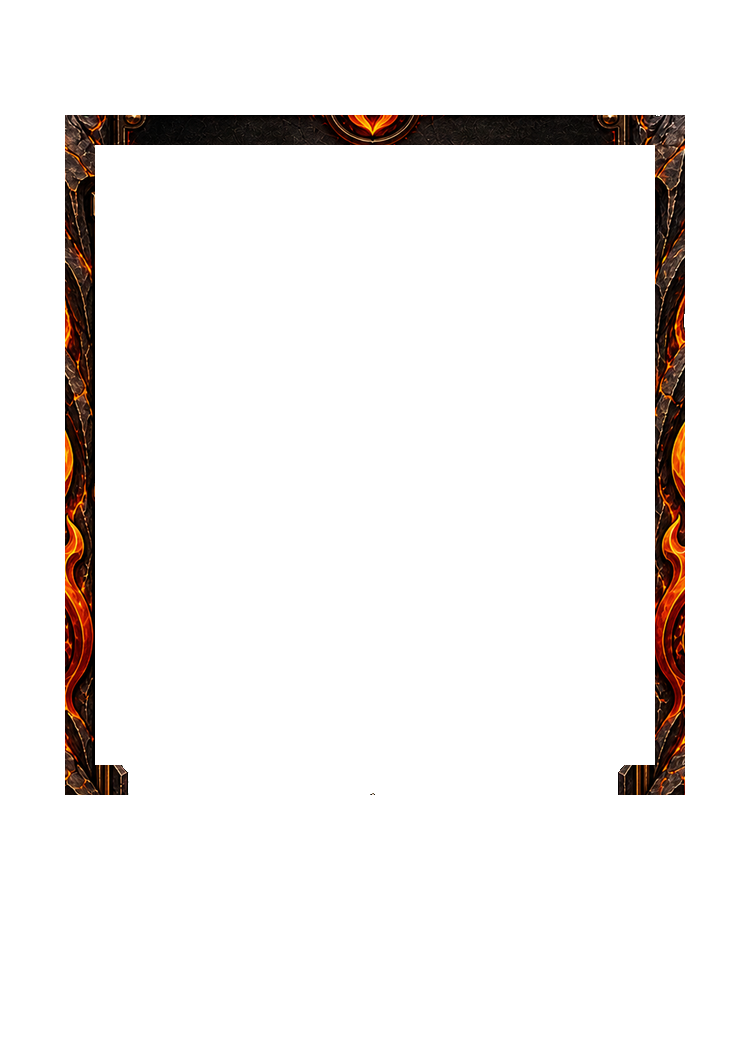
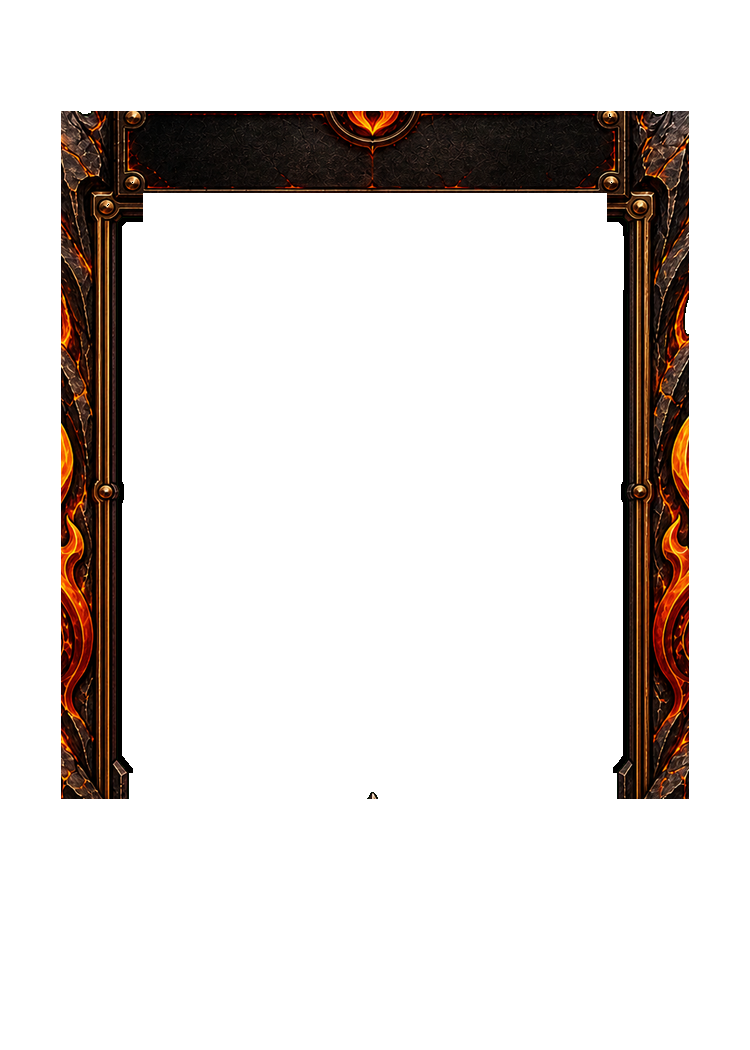
Stop checkerboard from cutting through frame chrome
Preserve ornate bezels inside the art-window bounds, remove hard art-rect
wipes, force surviving frame pixels fully opaque, and keep gray boxing
strictly under the frame composite.

Changed region(s): [[0.0613, 0.0914, 0.92, 0.7619]]

diff --git a/frames/export_layers.py b/frames/export_layers.py
@@ -101,7 +101,12 @@ def clear_outside_silhouette(arr: np.ndarray, *, alpha_threshold: int = 20) -> n
 
 
 def split_layers(frame_rgba: Image.Image, layout: dict[str, Any]) -> dict[str, Image.Image]:
-    """Split a transparent frame into editable region layers."""
+    """Split a transparent frame into editable region layers.
+
+    Important: do NOT hard-wipe the locked art_window rectangle. Ornate bezels
+    often sit inside those coordinates; only already-transparent pixels form the
+    art hole, so the frame can overlay checker/gray boxing cleanly.
+    """
     canvas = layout["canvas"]
     w, h = canvas["width"], canvas["height"]
     arr = np.array(frame_rgba.convert("RGBA").resize((w, h), Image.Resampling.LANCZOS))
@@ -112,9 +117,11 @@ def split_layers(frame_rgba: Image.Image, layout: dict[str, Any]) -> dict[str, I
     title_m = _rect_mask(h, w, regions["title_box"], inflate=10)
     bl_m = _rect_mask(h, w, regions["bottom_left_box"], inflate=10)
     br_m = _rect_mask(h, w, regions["bottom_right_box"], inflate=10)
-    bezel_m = _ring_mask(h, w, regions["art_window"], outer=30, inner_inset=0)
+    art = regions["art_window"]
+    art_m = _rect_mask(h, w, art)
+    # Bezel = opaque pixels near/inside the art rect rim + a ring just outside it.
+    bezel_m = _ring_mask(h, w, art, outer=34, inner_inset=0) | (art_m & opaque)
 
-    # Crest bands: top strip above title, and gap between bottom plaques.
     crest_m = np.zeros((h, w), dtype=bool)
     crest_m[0 : regions["title_box"]["y"] + 8, :] = True
     mid_x0 = regions["bottom_left_box"]["x"] + regions["bottom_left_box"]["width"]
@@ -126,21 +133,17 @@ def split_layers(frame_rgba: Image.Image, layout: dict[str, Any]) -> dict[str, I
         mid_x0:mid_x1,
     ] = True
 
-    # Priority assignment so plaques/crests/bezel win over outer chrome.
     layers = {name: _blank(w, h) for name in LAYER_ORDER}
 
     def assign(name: str, mask: np.ndarray) -> None:
-        m = mask & opaque & (layers[name][:, :, 3] == 0)
-        # ensure not already taken by higher-priority filled layers
         taken = np.zeros((h, w), dtype=bool)
         for prev in LAYER_ORDER:
             if prev == name:
                 break
             taken |= layers[prev][:, :, 3] > 0
-        m = m & ~taken
+        m = mask & opaque & ~taken
         layers[name][m] = arr[m]
 
-    # Order: plaques and crests first, then bezel, then remaining outer frame.
     assign("title_plaque", title_m)
     assign("footer_left", bl_m)
     assign("footer_right", br_m)
@@ -150,18 +153,7 @@ def split_layers(frame_rgba: Image.Image, layout: dict[str, Any]) -> dict[str, I
     taken = np.zeros((h, w), dtype=bool)
     for name in ("title_plaque", "footer_left", "footer_right", "crests", "art_bezel"):
         taken |= layers[name][:, :, 3] > 0
-    outer_m = opaque & ~taken
-    # Never put art-window interior into outer frame.
-    art = regions["art_window"]
-    art_m = _rect_mask(h, w, art, inflate=-2 if False else 0)
-    # hard clear art interior from outer
-    art_inner = _rect_mask(h, w, art)
-    outer_m &= ~art_inner
-    layers["outer_frame"][outer_m] = arr[outer_m]
-
-    # Guarantee art window stays empty on every layer.
-    for name in LAYER_ORDER:
-        layers[name][art_inner] = (0, 0, 0, 0)
+    layers["outer_frame"][opaque & ~taken] = arr[opaque & ~taken]
 
     return {k: Image.fromarray(v, "RGBA") for k, v in layers.items()}
 
@@ -188,6 +180,7 @@ def export_pack(
     layers_dir = out_dir / "layers"
     layers_dir.mkdir(exist_ok=True)
 
+    # Only clear empty fill (green/white). Never hard-wipe the art rect.
     punched = punch_art_hole(frame_rgba, layout, preserve_frame_detail=True)
     punched_arr = clear_outside_silhouette(np.array(punched))
     punched = Image.fromarray(punched_arr, "RGBA")

diff --git a/frames/build_hq_frame.py b/frames/build_hq_frame.py
@@ -151,39 +151,18 @@ def punch_art_hole(
 
 
 def make_slot_underlay(layout: dict[str, Any], *, cell: int = 16, full_checker: bool = True) -> Image.Image:
-    """Gray boxing for locked slots — drawn UNDER the frame.
+    """Checker underlay drawn UNDER the frame.
 
-    full_checker=True makes the entire canvas checkerboard so exterior
-    transparency of a frame cutout is obvious.
+    No solid gray plaque slabs — those read as cutting into the design when
+    any frame alpha is missing. Checker only, frame composites on top.
     """
     c = layout["canvas"]
     w, h = c["width"], c["height"]
     under = np.zeros((h, w, 4), dtype=np.uint8)
-
     yy, xx = np.indices((h, w))
     checker = ((xx // cell) + (yy // cell)) % 2 == 0
-    if full_checker:
-        under[checker] = (186, 186, 186, 255)
-        under[~checker] = (128, 128, 128, 255)
-    else:
-        under[:, :] = (24, 24, 28, 255)
-        art = layout["preserved_regions"]["art_window"]
-        ay, ax = art["height"], art["width"]
-        yy2, xx2 = np.indices((ay, ax))
-        art_checker = ((xx2 // cell) + (yy2 // cell)) % 2 == 0
-        art_block = np.zeros((ay, ax, 4), dtype=np.uint8)
-        art_block[art_checker] = (186, 186, 186, 255)
-        art_block[~art_checker] = (128, 128, 128, 255)
-        under[art["y"] : art["y"] + ay, art["x"] : art["x"] + ax] = art_block
-
-    # Slightly darker plaque underlays so empty plaque faces still read as slots.
-    for key in ("title_box", "bottom_left_box", "bottom_right_box"):
-        box = layout["preserved_regions"][key]
-        under[
-            box["y"] : box["y"] + box["height"],
-            box["x"] : box["x"] + box["width"],
-        ] = (96, 96, 102, 255)
-
+    under[checker] = (186, 186, 186, 255)
+    under[~checker] = (128, 128, 128, 255)
     return Image.fromarray(under, "RGBA")
 
 
